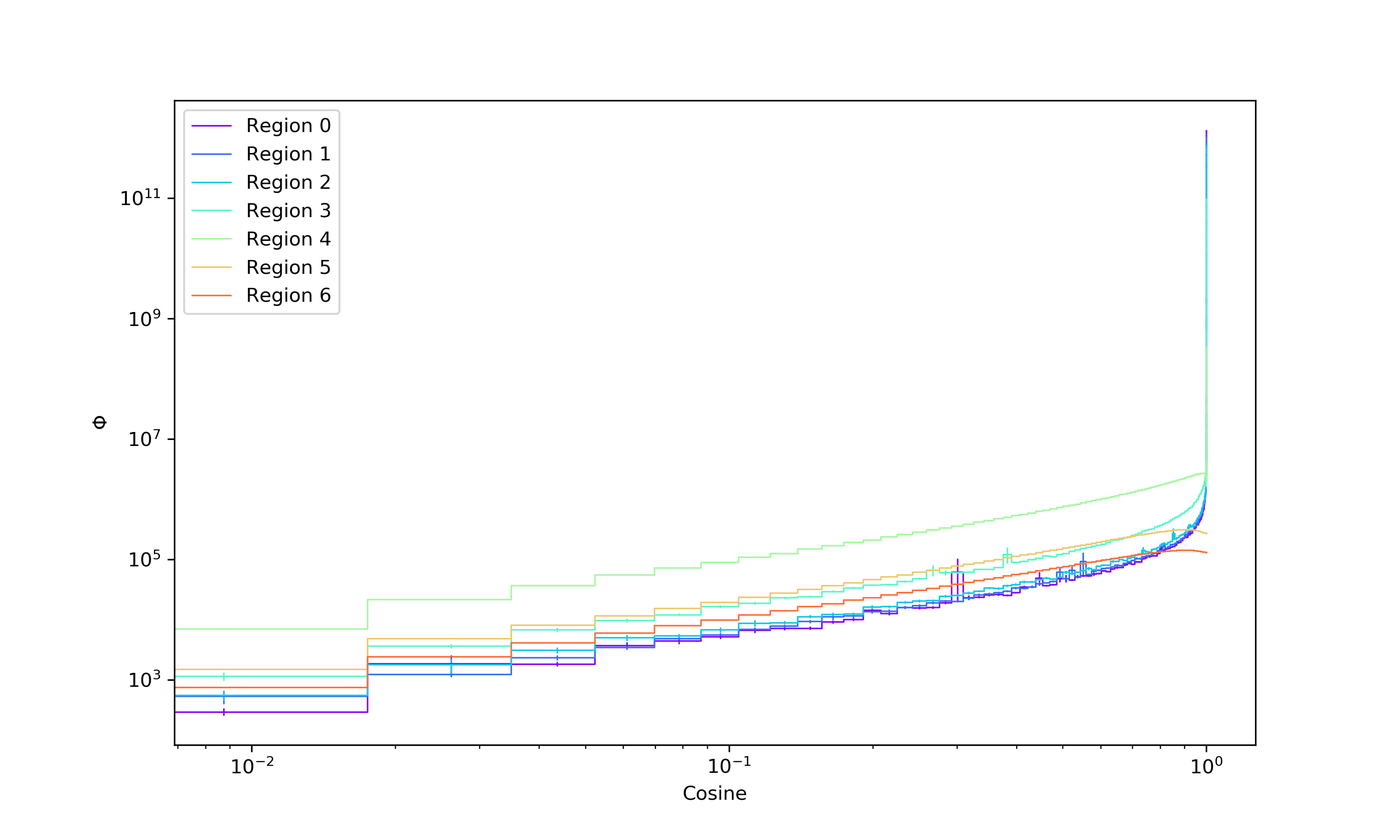
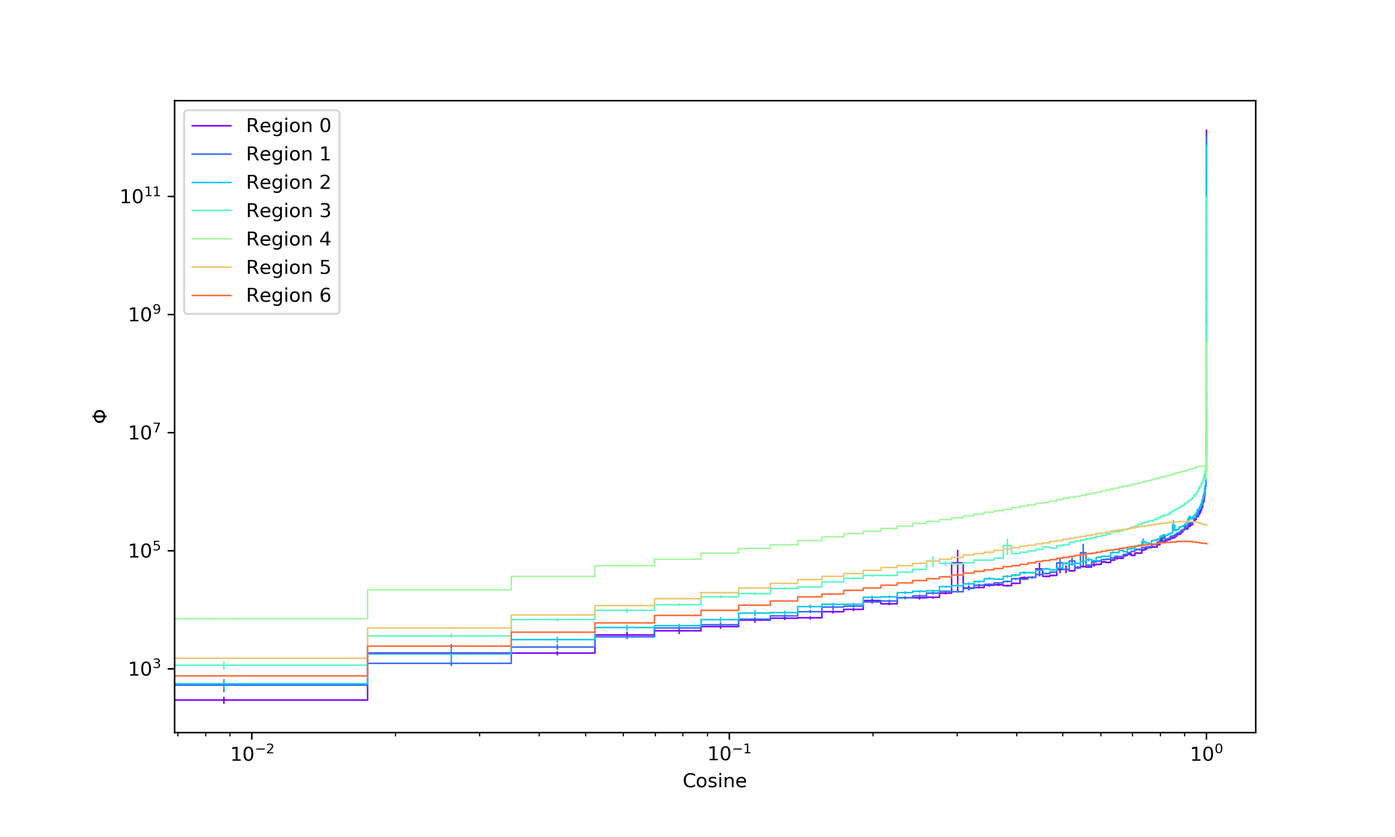
ch3 changes from everyone

diff --git a/tex/chapters/chapter3.tex b/tex/chapters/chapter3.tex
@@ -10,16 +10,16 @@
 % here, introduce the ideas present in chapter 3
 This section contains a complete description of the neutronic modeling for the NEBP.
 % before you measure it, it helps to have a model
-It's often necessary, as in this case, to model a neutronic environment before attempting to measure it, as the modeling results can inform certain measurement methods and parameters.
-The measurement systems used in later analyses required calculated response functions which built-in the flux's angular dependence obtained from this modeling effort.
-The final result from this section also provides the default spectrum to ultimately be used in the unfolding of the final neutron spectrum after measurement.
+It is often necessary, as in this case, to model a neutronic environment before attempting to measure it, as the modeling results can inform certain measurement methods and parameters.
+The measurement systems used in later analyses required calculated response functions that incorporated the flux's angular dependence obtained from this modeling effort.
+The final result from this section also provides the default spectrum to be used in the unfolding of the neutron spectrum after measurement.
 % there were many problems encountered along the way that lengthened the process of obtaining the final results, most regarding computation time
 Many problems were encountered during this analysis, often related to computational difficulty/time, that lengthened the process of obtaining the final results.
 These problems, along with the applied solutions, are presented.
 % first mcnp kcode, then sdef, then advantg, then finally the tally results
 We begin with the NEBP model's KCODE implementation in MCNP, followed by a conversion to a steady-state problem, the application of variance reduction, and finally, the beam-aperture tally results.
 % the steps here ultimately led to success in solving a difficult transport problem and could be used in other things like this.
-The steps here ultimately led to success in solving a difficult transport problem and these steps taken can likely be applied to similar situations, such as other reactor beam transport problems or, more broadly speaking, any problem with severe collimation of an isotropics source.
+The steps here ultimately led to success in solving a difficult transport problem and these steps taken can likely be applied to similar situations, such as other reactor beam transport problems or, more broadly speaking, any problem with severe collimation of an isotropic source.
 
 % ------------------------------------------------------------------------------
 \section{Addition of Northeast Beam Port}
@@ -31,7 +31,7 @@ The steps here ultimately led to success in solving a difficult transport proble
 % talk about the effort
 In the summer of 2017, a reactor modeling effort was initiated at KSU.
 % why it started
-The goal of the effort was to produce, from the ground up, a python-based suite that would interpret geometric and material data related to KSU's Triga Mark II research reactor and produce input files for various transport codes.
+The goal of the effort was to produce, from the ground up, a Python-based suite that would interpret geometric and material data related to KSU's TRIGA Mark II research reactor and produce input files for various transport codes.
 % what has been produced so far
 The model, though still currently under development, contains a majority of the features from the actual reactor, including any of those which would have a major neutronic impact.
 There are 85 fuel elements, containing fresh fuel, that are able to be automatically discretized axially, radially, and azimuthally into up to 10,000 cells.
@@ -54,12 +54,11 @@ This model can be seen in \FIG{fig:existing} and can be used to create input fil
 % introduce
 Using this model as a starting point, the northeast beam port (NEBP) was then added.
 % what is the beam port
-The NEBP, also known as the penetrating beam port or the fast beam port, is in essence, a large collimating cavity in the reactor's structure that allows neutrons to stream from the core to the outside of the reactor.
+The NEBP, also known as the penetrating beam port or the fast beam port, is in essence a large, collimating cavity in the reactor's structure that allows neutrons to stream from the core to the outside of the reactor.
 % purpose
-The primary purpose of this is to provide a monodirectional neutron source, the strength of which can be scaled easily via reactor control.
-This can be used for detector calibrations and testing, neutron imaging, or sample irradiation for neutron activation analysis.
-The NEBP is unique in the fact that it penetrates the graphite reflector providing, in theory, the hardest neutron spectrum of the four beam ports at KSU.
-This is due to the absence of significant moderating material between the fuel and the beam port, as all other beam ports are located outside of the graphite reflector.
+The primary purpose of this beam is to provide a monodirectional neutron source, the strength of which can be scaled easily via reactor control.
+This beam can be used for detector calibrations and testing, neutron imaging, or sample irradiation for neutron activation analysis.
+The NEBP is unique in the fact that it penetrates the graphite reflector providing, in theory, the hardest neutron spectrum of the four beam ports at KSU due to the absence of significant moderating material between the fuel and the beam port, as all other beam ports are located outside of the graphite reflector.
 
 % isometric view of the solidworks model of the beam port
 \begin{figure}[htb]
@@ -72,14 +71,14 @@ This is due to the absence of significant moderating material between the fuel a
 
 The NEBP geometry is relatively simple.
 % two sections 6 and 8 inch
-It is comprised of two, six-foot, cylindrical segments; the inner and outer segments being 6" and 8" in diameter, respectively.
+It is comprised of two, six-foot, cylindrical segments; the inner and outer segments being 6 in and 8 in in diameter, respectively.
 % coupled by shadow shield
 A lead ``shadow shield" sits at the junction of these two sections to help reduce the gamma component of the outgoing particle stream.
-The shadow shield is 4'x4' and 4" thick and contains a hole through the center, through which the outer portion of the NEBP's 6" section extends.
+The shadow shield is 4 ft x 4 ft and 4 in thick and contains a hole through the center, through which the outer portion of the NEBP's 6 in section extends.
 % material
 The walls of each section are made of 11/32" thick aluminum.
 % wooden plugs but now empty
-Originally, these sections contained removable wooden plugs that would dissallow neutron to stream through; however, water leaks in the port caused damage to these plugs and at present they have been removed.
+Originally, these sections contained removable wooden plugs that would block neutron streaming; however, water leaks in the port caused damage to these plugs, and, at present, they have been removed.
 
 % collimator
 A collimator is situated within the 8" section.
@@ -119,7 +118,7 @@ As described above, the NEBP, including both sections and the shadow shield, was
 A penetration was added to the existing graphite reflector.
 The reactor documentation was unclear about some specifics regarding this penetration, so it was assumed that it was not radially encased by any aluminum, but the aluminum surrounding the reflector was left intact to not let water in.
 The materials used for the NEBP can be seen in \TAB{tab:nebp_materials}.
-Material data in the model came from {\tt pyne}.
+Material data in the model came from {\tt pyne} \cite{scopatz2012pyne}.
 
 
 % table that contains the material data for the model
@@ -190,23 +189,25 @@ This conversion required the collection of spatially-dependent fission site data
 This ``fission map'' could provide the set of probability vectors to inform the source sampling in the steady-state problem.
 This was done in the following way.
 First, the fuel cells were discretized axially and radially.
-It was decided that 40 axial sections and 5 radial sections were used for each of the 85 fuel elements to create a total of 17,000 individual cells.
+It was decided to use 40 axial sections and 5 radial sections for each of the 85 fuel elements to create a total of 17,000 individual cells.
+This resolution ensured that the details in the fission rate profiles were adequately captured.
 Then a fission rate tally was created for these cells.
 This was done using an F4 tally (flux averaged over a cell) with an FM (tally multiplier) card which would multiply the flux by the total fission cross section for the fresh fuel material.
 With these tallys in place, the KCODE problem was then run for a total of 4,400 cycles where the first 10 were discarded and each cycle consisted of 100,000 particles.
+This guaranteed the statistics for the tallies had properly converged.
 
-After running this problem, a python script was used to parse the output and generate an SDEF source to be used in the next step.
-This card is shown here.
+After running this problem, a python script was used to parse the output and generate an SDEF source to be used in the next step; this card is:
 
 \begin{center}
 {\tt SDEF ERG=D1 RAD=D2  AXS=0 0 1  POS=D3  EXT=FPOS=D4}
 \end{center}
 
-The {\tt ERG} (energy) distribution used for the source was MCNP's built-in Watt spectrum, indicated simply by a {\tt -3} on the source probability card.
+\noindent
+The {\tt ERG} (energy) distribution used for the source was MCNP's built-in Watt spectrum, indicated by a {\tt -3} on the source probability card.
 The source's spatial distribution is a series of cylinders co-located with the respective fuel elements within the core.
 The {\tt POS} (position) variable contained the center points of each of the fuel elements, whose probability of sampling is proportional to their integrated fission rate.
 The {\tt EXT} (extent) variable means length of the cylinder, in this case the length of the fuel meat, and refers to a series of distributions dependent on the {\tt POS} of the fuel.
-Because base MCNP doesn't easily allow for nested dependent distributions, the {\tt RAD} (radial) distribution was considered an independent variable, and the distribution used was the normalized, averaged radial fission rate across each fuel element.
+Because base MCNP does not easily allow for nested dependent distributions, the {\tt RAD} (radial) distribution was considered an independent variable, and the distribution used was the normalized, averaged radial fission rate across each fuel element.
 
 \subsection{Fission Tally Results}
 Along with the source, several plots were made of this fission rate data.
@@ -257,7 +258,7 @@ Each of these rings shows a cosine-like distribution with a slight upturn at eac
 Neutron flux within a {\it roughly} cylindrical geometry, like a reactor core, will {\it roughly} exhibit a cosine shape, which causes a similar shape for the fission distribution.
 The upturn is caused by the graphite on each end of the fuel elements which reflects neutrons back towards the rod.
 There are two rings in particular that show additional behavior outside of these two phemonena.
-The first is the depression within the B ring below 0 $cm$.
+The first is the depression within the B ring below 0 cm.
 This is caused by the central thimble, which currently occupies the A1 location.
 Moderating water which would normally occupy that location is replaced by this thimble which is currently modeled as an aluminum rod that extends halfway up the core.
 This lack of neutron moderation means lower thermal flux in that region and results in the depression.
@@ -265,7 +266,7 @@ This lack of neutron moderation means lower thermal flux in that region and resu
 The second is the depressed fission rate within the lower region of F1-F9.
 This is caused by the addition of the NEBP.
 Recall, the beam port includes a penetration within the graphite reflector. 
-This penetration is situated 8.3 $cm$ below the $z$ axis.
+This penetration is situated 8.3 cm below the z axis.
 This lack of reflection means more neutrons will stream out of the core within that region, thus lowering the local flux and fission rate.
 This effect can be seen to a degree within the E ring, but it is much less pronounced.
 
@@ -281,22 +282,30 @@ This effect can be seen to a degree within the E ring, but it is much less prono
 
 By studying \FIG{fig:totals_azi}, one can again see the effect the NEBP has on the F ring's fission rates.
 This depression is seen when sweeping past the NEBP from around 12$^{\circ}$-75$^{\circ}$.
-Other peaks and vally's seen in the figure are likely the cause of control rod, central thimble, and source placement.
+Other peaks and vallys seen in the figure are likely the cause of control rod, central thimble, and source placement.
 
 
 % ------------------------------------------------------------------------------------------------------------------
-\section{Application of Advantg}
+\section{Application of ADVANTG}
 
 % okay, we've got an SDEF problem, what kind of tallies would we like?
 After obtaining the fission rate tallies and creating an appropriate SDEF card, the MCNP problem formulation is now only missing a final tally.
 The tallies are setup here to capture the maximum detail and understanding of what is happening at the outer aperture of the NEBP.
 First, the outer face of the NEBP is used in a surface tally (F2) to find the fluence departing.
-This tally was divided spatially using different concentric cylinders, providing information on seven regions of the NEBP.
+This tally was divided spatially using different concentric cylinders, providing information on seven regions of the NEBP as shown in \FIG{fig:region_diagram}.
 The first three are all equivalent-area tallies within the collimator itself.
 This will provide an understanding of the radial distribution with the main beam.
 The fourth segment was the exterior face of the aluminum collimator.
-Then, the last three were equivalent area tallies within the BP collimator.
+Then, the last three were equivalent area tallies within the borated polyethylene collimator.
 This would give an idea for the quantity of neutrons that managed to escape the main beam but still contribute to detectors, dose, etc., outside of the beam.
+
+% tally regions
+\begin{figure}[htb]
+\centering
+\includegraphics[height=5in]{tex/figures/region_diagram.png}
+\caption[Tally Region Diagram]{The radial regions used for tallying.}
+\label{fig:region_diagram}
+\end{figure}
 
 % we've also got them divided into cosine and energy
 Then, both angular and spectral groupings were used to bin each of these regions.
@@ -315,7 +324,6 @@ It became quickly apparent that this problem needed of some form of VR to be abl
 
 % let's pick advantg.
 For this application, the code ADVANTG was select to provide the VR needed to do the transport.
-
 % but what is advantg?
 ADVANTG, the AutomateD VAriaNce reducTion Generator, generates weight window parameters for a fixed-source, continuous-energy MCNP problem \cite{mosher2013advantg}.
 This is accomplished by solving the 3-D discrete ordinates neutron (or photon or coupled neutron-photon) transport problem using the Denovo package.
@@ -327,10 +335,9 @@ In the case of the NEBP, the large source-to-tally distance, small tally solid a
 
 % how did i apply it to our problem
 However, there were first a few issues that needed to be addressed with the formulation of the transport problem before ADVANTG could be used effectively.
-
 % first, we rotated the model
 Recall that the NEBP aligns 50$^{\circ}$ azimuthally from the main $x$-axis.
-Denovo solves problems on a 3-D fixed mesh, meaning that capturing the details of the NEBP will be counterintuitive, as the axis of the beam doesn't directly lie along one of the axes.
+Denovo \cite{evans2010denovo} solves problems on a 3-D fixed mesh, meaning that capturing the details of the NEBP will be counterintuitive, as the axis of the beam does not directly lie along one of the axes.
 In addition to this, the full transport problem requires a large amount of memory to solve, which became a limiting factor when selecting ADVANTG parameters.
 Because of these issues, the model needed to be rotated so that way the beam could lie on axis and the mesh resolution could be altered in a way that fully captured the effects of the beam and collimator while not wasting memory solving for fluxes in the structural material outside of the beam.
 Alterations were then made to the input-generating python scripts to allow the user to rotate the entire model by altering a single parameter.
@@ -338,9 +345,6 @@ The model was then rotated 50$^{\circ}$ clockwise so the NEBP lied on the positi
 The KCODE problem was rerun to verify the rotated model still produced the same fission rates and that no biases were introduced.
 The results from this verification did match the original fission-rate tallies.
 
-% then here, i'll just talk about all of the advantg parameters and why they were used
-ADVANTG was then run with the NEBP problem.
-The parameters selected are shown in \TAB{tab:advantg_params}.
 
 % this contains all of the advantg parameters
 \begin{table}[h]\centering
@@ -370,6 +374,9 @@ denovo\_z\_blocks         &   1\\
 \end{tabular}
 \end{table}
 
+% then here, i'll just talk about all of the advantg parameters and why they were used
+ADVANTG was then run with the NEBP problem.
+The parameters selected are shown in \TAB{tab:advantg_params}.
 % basically, everything comes down to runtime, memory, and FOM
 Several of the parameters are self-explanatory, but the non-intuitive ones will be discussed here.
 First, {\tt cadis} refers to the method used to solve the transport problem.
@@ -383,7 +390,6 @@ Because the problem has a high angular dependence (a beam of neutrons streaming 
 Increasing this parameter also helped to reduce ray effects present within the solution.
 Finally, {\tt denovo\_x\_blocks}, etc. refer to the parallelization scheme.
 The computer used for this calculation had 64 cores available, so these values 8, 8, and 1 all multiply to that value.
-
 % so i ran it, that gave me a wwinp file that was how many MB?
 Using these parameters, ADVANTG was run and biasing parameters and a weight window input file was produced.
 
@@ -416,18 +422,18 @@ This has been integrated over both angle as well as the seven tally regions.
 % because of this, the spectrum resembles that which one would find within the core
 The spectrum resembles that which one would find within a reactor core.
 % you've got your watt distribution % you've got your 1/E region % you've got your maxwellian distrubution
-Centered around 1 MeV is the Watt fission distribution, the intermediate region is comprised of $1/E$ slowing down neutrons, and peaking around $3 \times 10^{-8}$ is the Maxwellian distribution.
+Centered around 1 MeV is the Watt fission distribution, the intermediate region is comprised of $1/E$ slowing down neutrons, and peaking around $3 \times 10^{-8}$ MeV is the Maxwellian distribution.
 % the main contribution to this tally is line of sight down the beam
 This is likely because the line-of-sight neutrons streaming from the core are the primary component to this flux tally.
 % as you can see, those are clearly on display because, ya know it should look like that
-The borated polyethylene within the collimator is a very strong absorber and also very long, so it's unlikely that moderated neutrons escape and manage to contribute to the tally.
+The borated polyethylene within the collimator is a very strong absorber and also very long, so it is unlikely that moderated neutrons escape and manage to contribute to the tally.
 
 % there are two noisy locations
 There are also two regions seen in this plot that are heavily affected by statistical noise, the slower half of the $1/E$ region and the slow tail of the Maxwellian distribution.
 % this is because of low probability tallies
 This is because there is such a low probability that a neutron at that energy will be tallied.
 % this is because of small bin widths in the 1/e region and low probability within the super slow region
-Specifically, within the scale252 bin structure, there are several narrow bins within the $1/E$ region, and tally probability is proportional to the bin width times the true flux, therefore, it's reasonable to see high errors within that region.
+Specifically, within the scale252 bin structure, there are several narrow bins within the $1/E$ region, and tally probability is proportional to the bin width times the true flux, therefore, it is reasonable to see high errors within that region.
 The flux in the tail end of the Maxwellian distribution is also very low, causing the poor resolution within that region.
 These could ultimately be resolved via simulation of more particles.
 
@@ -443,23 +449,23 @@ These could ultimately be resolved via simulation of more particles.
 \end{figure}
 
 % the erg dependent flux can be seen broken down into region in figure whatever.
-The energy-dependent flux can be seen broken down into it's separate regional tallies within \FIG{fig:flux_rad_erg}.
+The energy-dependent flux can be seen broken down into it is separate regional tallies within \FIG{fig:flux_rad_erg}.
 % regions 0-7 refer to whatever
 Recall, regions 0-2 are equal-area tallies within the beam, region 3 refers to the aluminum collimator, and regions 5-7 are equal-area tallies within the borated polyethylene.
 % this gives us a first glance at comparing magnitudes
 This plot gives us a first glance at comparing the magnitudes within each region.
-Over three orders of magnitude lie between the highest and lowest regional fluxes here.
+Over three orders of magnitude lie between the highest and lowest regional fluxes.
 % let's comment on noise for a sec, too
 The noise problem \FIG{fig:flux_erg} is also amplified here, as separating the tallies by region furthur slows individual tally bin convergence.
-However, it's still possible to draw meaningful conclusions from this plot.
+However, it is still possible to draw meaningful conclusions from this plot.
 % okay, first, there's like no difference in the first three
-First, apart from statistical noise, there's no obvious difference between the spectra within the in-beam regions.
+First, apart from statistical noise, there is no obvious difference between the spectra within the in-beam regions.
 % in the aluminum, the fast flux seems flattened
-It's in the aluminum where the flux begins to depart, being separated both by magnitude and also exibiting a flatness within the fast region.
+It is in the aluminum where the flux begins to deviate, being separated both by magnitude and also exibiting a flatness within the fast region.
 % the bp sections are clearly moderated
 Differences seen in the borated polyethylene regions are much more obvious, as the spectra are clearly moderated variants of those in-beam.
 % look how the fast peak shrinks the further out you go
-The furthur from the center of the beam, the more flat the fast region becomes.
+The farthur from the center of the beam, the more flat the fast region becomes.
 % the 1/e region shows some curvature here. interesting
 The $1/E$ region begins to demonstrate some curvature, which is likely in relation to the absorption and scattering cross sections of the borated polyethylene.
 % also, maxwell is flattened
@@ -471,7 +477,7 @@ The Maxwellian distributions within these sections are also flattened and exibit
 \begin{figure}[htb]
 \centering
 \includegraphics[height=4in]{tex/figures/flux_cos.png}
-\caption[Flux vs. Angle]{The differential flux as a fuction of angle.}
+\caption[Flux vs. Angle]{The energy-integrated flux as a fuction of angle.}
 \label{fig:flux_cos}
 \end{figure}
 
@@ -499,15 +505,15 @@ Outside of that, the rest of this flux is goverened by a smooth exponential tape
 % this is a closer look a the peak angular flux
 Seen in \FIG{fig:flux_cos_detail} is a closer look at the forward peak in the angular flux.
 % within a cosine of 0.9999 and 1.0000 there's a jump of over 5 orders of magnitude.
-Within cosine values of 0.9999 and 1.0000 there's a jump of over five orders of magnitude.
+Within cosine values of 0.9999 and 1.0000 a jump of over five orders of magnitude occurs.
 % this allows us to comment on the relationship between scattering and absorption within the collimator
 This allows us to comment on the relationship between scattering and absorption within the collimator.
 % bounds on the sharpness of the peak matches the maximum angle that a neutron can travel within the collimator without an interaction.
 The bounds on the sharpness of the peak match the maximum line-of-sight angle within the aluminum tube in the beam.
 The neutrons within this peak are managing to stream down the collimator from the core without interacting on the way.
 % if scattering was dominant within the collimator, this peak would appear much flatter, but since it's not, the boron within the collimator is likely the reason.
-This suggests that it's absorption, not scattering that dominates interactions with in the collimator.
-If scattering was more likely, this peak would be much smoother, but instead the neutrons entering the collimator are being removed.
+This suggests that absorption dominates interactions within the collimator.
+If scattering was more likely, this peak would be much smoother, but, instead, the neutrons entering the collimator are being removed.
 
 %\clearpage
 
@@ -524,7 +530,7 @@ Here, in \FIG{fig:flux_rad_cos} is the anglur flux broken into tally regions.
 % similar to energy dependent flux, there's little deviation that can be seen between regions 0-2, except there's question about the magnitude here
 Similar to the energy dependent flux plotted above, there is little deviation that can be seen between regions 0-2, although there is slight differences in the magnitudes.
 % definite jump in the aluminum section
-The aluminum section, section 3, exhibits much more isotropy, as the flux seen on this plot appears much higher than the others, since it's the first non-void material encountered by the neutrons.
+The aluminum section, section 3, exhibits much more isotropy, as the flux seen on this plot appears much higher than the others, it is the first non-void material encountered by the neutrons.
 % the anisotropy is much higher within the outer regions
 This anisotropy is still much higher in the borated polyethylene sections.
 % they are still forward peaked, though, but that doesn't happen cos=1.000 but rather at an angle.
@@ -546,11 +552,11 @@ In \FIG{fig:flux_rad_cos_detail} is the detailed view of the data from \FIG{fig:
 % this shows in greater detail the specifics of the forward peaking that happends in the angular flux
 This shows greater detail on the peak specifics of the angular fluxes.
 % regions 0-2 all have the highest bin being the most forward, however the distribution broadens as you move outward
-The in-beam regions are all forward peaked, with the highest bin being at $cos=1.000$; however, the distribution tends to broaden when moving outward.
+The in-beam regions are all forward peaked, with the highest bin being at cos = 1.000; however, the distribution tends to broaden when moving outward.
 % this trend is even true in the aluminum
 This trend continues in the aluminum section.
 % in the BP in region 4, the peak lies slightly off center, likely related to scattering behavior that allowed neutrons to get to that tally
-In region 4 in the borated polyethylene, this peak appears slightly off axis, which is related to the scattering or "edge-clipping" effects that would transport a neutron to that region.
+In region 4 in the borated polyethylene, this peak appears slightly off axis, which is related to the scattering or ``edge-clipping'' effects that would transport a neutron to that region.
 % in this view, regions 5 and 6 appear isotropic, likely because a neutron to encounter one of those tally planes would have scattered several times
 In this view, regions 5 and 6 appear isotropic, likely because any neutron to encounter either of those tally planes would have scattered several times, effectively diffusing the spectrum.
 
